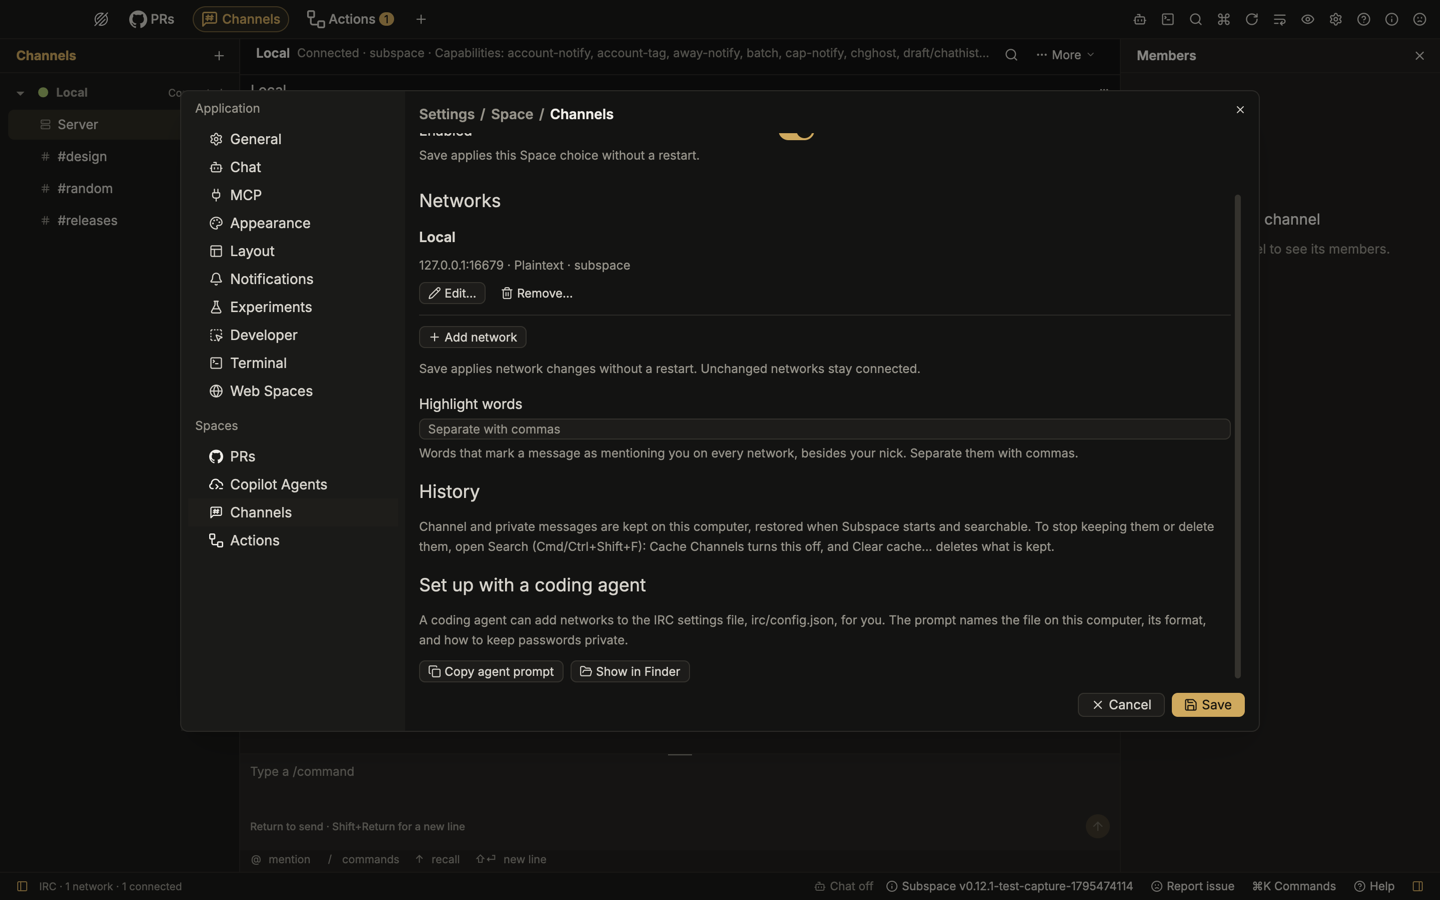
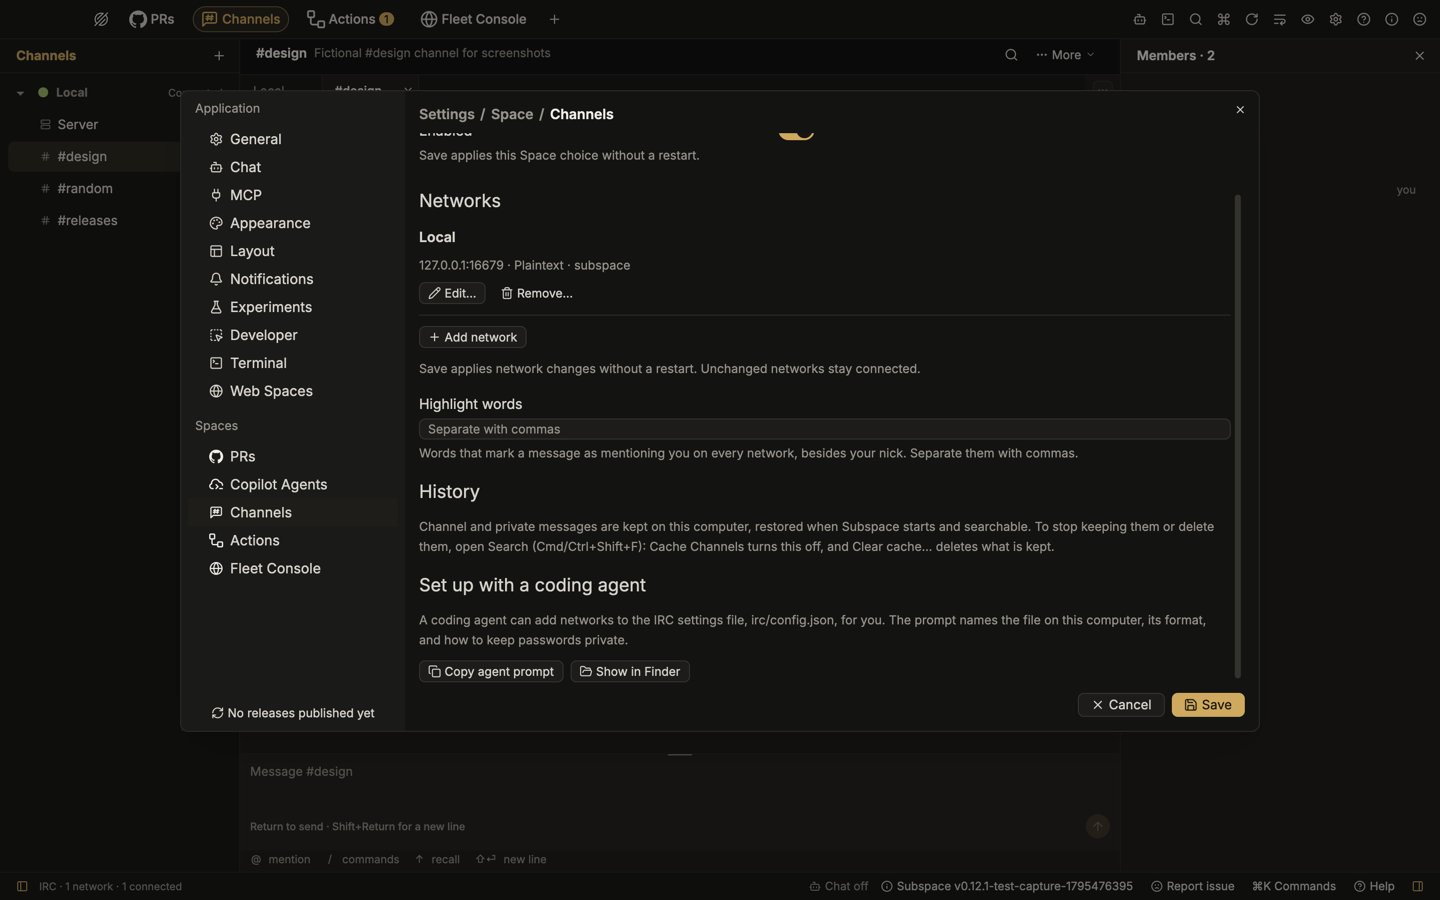
fix(desktop): show Fleet Console in a build with no API backend
A build with no API backend hid Fleet Console until its address and token
were in its config entry, leaving nowhere in the app to enter them. It now
shows as in every build: unset, it shows its sample fleet, points to its
own Settings page and offers Add fleet, naming no API or sign-in.

diff --git a/subspace-desktop/web-spaces/fleet-console/test/fleets.test.js b/subspace-desktop/web-spaces/fleet-console/test/fleets.test.js
@@ -6,6 +6,7 @@ import { normalizeEndpoint } from "../src/api.js";
 import { addBlocker, sampleNote, describeTestError, describeTestSuccess, fleetForm, fleetSection, landscapePanel, validateFleetForm } from "../src/fleet-panel.js";
 import { createFleetManager, createSampleFleetManager, nextPollAt, POLL_MS } from "../src/fleet-manager.js";
 import { initialFleetState } from "../src/reducer.js";
+import { describeConnection } from "../src/connection.js";
 import { chain, createNavigator, fleetTier, LANDSCAPE, parentOf, planSteps, sameSelection } from "../src/camera.js";
 import { focusFor, landscapeLayout } from "../src/layout.js";
 import { composeFrame } from "../src/scene/index.js";
@@ -137,6 +138,16 @@ test("merging keeps Settings first, then the API, then the page, one entry per a
   const merged = mergeFleets({ settings, api, local });
   assert.deepEqual(merged.map((fleet) => [fleet.id, fleet.origin]), [[DEFAULT_FLEET_ID, "settings"], ["api_i1", "api"], ["floc000002", "local"]]);
   assert.deepEqual(mergeFleets({}), []);
+});
+
+test("without the Subspace API, an unset Fleet Console asks for its own fleet and names no API or sign-in", () => {
+  // A build with no API backend gives no API fleets: the page's own
+  // settings and Add fleet are how a fleet gets there.
+  const unset = resolveFleets({ present: true, allowed: allowedAll, capabilities: caps, settings: {}, secrets: {}, list: [], api: [], normalizeEndpoint });
+  assert.deepEqual([unset.mode, unset.reason, unset.canStore], ["sample", "no-endpoint", true]);
+  const { banner } = describeConnection({ status: "sample", reason: unset.reason });
+  assert.match(banner.body, /Settings > Spaces > Fleet Console/);
+  assert.doesNotMatch(`${banner.title} ${banner.body}`, /Subspace API|Settings › Fleets|sign in|initiative/i);
 });
 
 test("resolving: sample without a usable fleet, live with any fleet that has a token", () => {

diff --git a/subspace-desktop/products/subspace/src/surfaces.rs b/subspace-desktop/products/subspace/src/surfaces.rs
@@ -5,22 +5,19 @@
 //! - the Issues and Decisions Spaces, from the registrations and the
 //!   descriptor (Settings, **Add a Space**, search and the command palette
 //!   list only those);
-//! - Settings › Fleets, whose fleets are the API's initiatives' fleets;
-//! - the built-in Fleet Console until its own Stargate API address and token
-//!   are saved, since only those give it a fleet.
+//! - Settings › Fleets, whose fleets are the API's initiatives' fleets.
 //!
-//! Updates are the same in every build: the updater checks GitHub releases,
-//! never the API.
+//! Everything else is the same in every build: the updater checks GitHub
+//! releases, never the API, and Fleet Console, which then has only the
+//! fleets a person enters in its own settings or adds inside it.
 //!
 //! Sign-in needs a provider, which such a build refuses (`identity.rs`), and
 //! the API client refuses every request once `launch::install` has recorded
 //! the choice, which turns Channels' initiatives, fleet context, captain
 //! notices, uploads and tracker commands off.
 
-use subspace_framework::core::config::web_boards::WebBoard;
 use subspace_framework::product::ProductDescriptor;
 use subspace_framework::shell::{BoardRegistration, SettingsExtension};
-use subspace_web_board::builtin::FLEET_CONSOLE_ID;
 
 use crate::settings::ApiBackend;
 
@@ -29,10 +26,6 @@ const API_SPACES: [&str; 2] = ["issues", "decisions"];
 
 /// The Settings extensions that list what the tracker API records.
 const API_SETTINGS: [&str; 1] = ["fleets"];
-
-/// Fleet Console's own settings for its first fleet, from its manifest.
-const FLEET_ENDPOINT: &str = "endpoint";
-const FLEET_TOKEN: &str = "token";
 
 /// Whether `backend` keeps the Space or Settings page `id`, of which those
 /// in `needs_api` need an API.
@@ -67,75 +60,4 @@ pub(crate) fn adjust_descriptor(descriptor: &mut ProductDescriptor) {
     descriptor
         .boards
         .retain(|board| keeps(ApiBackend::None, board.id.as_str(), &API_SPACES));
-}
-
-/// Whether `backend` shows the configured web Space `board`: always, except
-/// Fleet Console in a build with no API backend, which has no fleets from
-/// the API and shows once its Stargate API address and token are saved, as
-/// the installer saves them.
-pub(crate) fn shows_web_space(backend: ApiBackend, board: &WebBoard) -> bool {
-    backend != ApiBackend::None || board.id != FLEET_CONSOLE_ID || has_own_fleet(board)
-}
-
-/// Whether Fleet Console's settings hold a fleet: an address and a token.
-fn has_own_fleet(board: &WebBoard) -> bool {
-    let endpoint = board
-        .settings
-        .get(FLEET_ENDPOINT)
-        .and_then(|value| value.as_str())
-        .is_some_and(|value| !value.trim().is_empty());
-    let token = board
-        .secrets
-        .get(FLEET_TOKEN)
-        .is_some_and(|token| !token.expose().trim().is_empty());
-    endpoint && token
-}
-
-#[cfg(test)]
-mod tests {
-    use super::{ApiBackend, FLEET_CONSOLE_ID, shows_web_space};
-    use std::path::PathBuf;
-    use subspace_framework::core::Secret;
-    use subspace_framework::core::config::web_boards::{WebBoard, WebBoardSource};
-
-    fn board(id: &str, endpoint: Option<&str>, token: Option<&str>) -> WebBoard {
-        WebBoard {
-            id: id.to_owned(),
-            title: "Fixture".to_owned(),
-            source: WebBoardSource::Folder(PathBuf::from("/apps/fixture")),
-            settings: endpoint
-                .map(|endpoint| ("endpoint".to_owned(), endpoint.into()))
-                .into_iter()
-                .collect(),
-            secrets: token
-                .map(|token| ("token".to_owned(), Secret::new(token)))
-                .into_iter()
-                .collect(),
-            permissions: Default::default(),
-        }
-    }
-
-    #[test]
-    fn without_a_backend_fleet_console_shows_once_its_fleet_is_saved() {
-        let address = Some("https://fleet.example.com");
-        let saved = board(FLEET_CONSOLE_ID, address, Some("fixture-token"));
-        assert!(shows_web_space(ApiBackend::None, &saved));
-        for unsaved in [
-            board(FLEET_CONSOLE_ID, None, None),
-            board(FLEET_CONSOLE_ID, address, None),
-            board(FLEET_CONSOLE_ID, None, Some("fixture-token")),
-            board(FLEET_CONSOLE_ID, Some("  "), Some("fixture-token")),
-            board(FLEET_CONSOLE_ID, address, Some(" ")),
-        ] {
-            assert!(!shows_web_space(ApiBackend::None, &unsaved));
-            // The API's fleets give the other builds a fleet without them.
-            assert!(shows_web_space(ApiBackend::Subspace, &unsaved));
-            assert!(shows_web_space(ApiBackend::Nett, &unsaved));
-        }
-        // Every other web Space shows, whatever its settings.
-        assert!(shows_web_space(
-            ApiBackend::None,
-            &board("notes", None, None)
-        ));
-    }
 }

diff --git a/subspace-desktop/products/subspace/src/main.rs b/subspace-desktop/products/subspace/src/main.rs
@@ -182,7 +182,6 @@ fn web_boards(config: &subspace_framework::core::config::Config) -> Vec<BoardReg
     config
         .web_boards
         .iter()
-        .filter(|board| surfaces::shows_web_space(identity::backend(), board))
         .map(|board| {
             let page = board.clone();
             let registration = BoardRegistration::configured::<subspace_web_board::WebBoard>(
@@ -228,6 +227,25 @@ mod tests {
     use crate::settings::ApiBackend;
     use std::collections::HashSet;
     use subspace_framework::product::BuildKind;
+
+    /// Fleet Console shows in every build, before any fleet is set, so a
+    /// build with no API backend can set its first fleet in Fleet Console's
+    /// own settings or add one inside it.
+    #[test]
+    fn fleet_console_shows_before_any_fleet_is_set() {
+        use subspace_framework::core::config::web_boards::{WebBoard, WebBoardSource};
+        let mut config = subspace_framework::core::config::Config::default();
+        config.web_boards.push(WebBoard {
+            id: subspace_web_board::builtin::FLEET_CONSOLE_ID.to_owned(),
+            title: "Fleet Console".to_owned(),
+            source: WebBoardSource::Folder(std::path::PathBuf::from("/apps/fleet-console")),
+            settings: Default::default(),
+            secrets: Default::default(),
+            permissions: Default::default(),
+        });
+        let ids: Vec<_> = web_boards(&config).iter().map(|board| board.id).collect();
+        assert_eq!(ids, [subspace_web_board::builtin::FLEET_CONSOLE_ID]);
+    }
 
     #[test]
     fn a_config_without_web_boards_adds_no_boards() {

diff --git a/subspace-desktop/docs/changes/desktop-no-backend/README.md b/subspace-desktop/docs/changes/desktop-no-backend/README.md
@@ -7,8 +7,8 @@ abstracted over other trackers. What keeps the app usable without the API is
 a build option, not an interface. The owner wants a third `api_backend`
 value, `none`, beside `subspace` (the default) and `nett`: a build that
 starts with nothing to sign in to, connects to IRC networks configured by
-hand, shows Fleet Console only for a fleet whose address and token were
-saved by hand, keeps its updates, and shows no surface that would call the API. The other two
+hand, lets a person give Fleet Console a fleet by hand inside the app, keeps
+its updates, and shows no surface that would call the API. The other two
 builds behave exactly as before.
 
 ## Spec
@@ -77,11 +77,12 @@ Not present, so nothing to leave out:
   which `install.sh` writes), the fleets the API assigns to initiatives
   (`subspace.fleets.get`, from `FleetApi` over the initiative catalogue) and
   fleets added inside the page. With no API the second source is always
-  empty, so the build registers the built-in Fleet Console only once its
-  entry holds both an address and a token (`surfaces::shows_web_space`);
-  the config file is watched, so it appears when they are saved. No new
-  settings surface: the entry's settings are the ones the installer and the
-  Space's own Settings page already use.
+  empty and the other two work as before, so the build registers Fleet
+  Console as every build does. Unset, it shows its sample fleet with
+  **Sample fleet: no Stargate address**, which points to Settings › Spaces ›
+  Fleet Console, and its inspector offers **Add fleet**, which keeps the
+  token in the Space's secrets. Neither names the API or a sign-in. No new
+  settings surface.
 - **Updates.** The updater reads the product's release source on GitHub,
   with the GitHub credential when there is one, and never the Subspace API
   or its account, so a `none` build updates as every build does.
@@ -110,10 +111,12 @@ and two lines in Channels.
   - `src/identity.rs`: a launch with no provider offers no account; the
     stamped build's descriptor is adjusted for its backend.
   - `src/main.rs`: each backend's Space and Settings page set, and the
-    adjusted descriptor lists exactly the Spaces a `none` build registers
-    and keeps the update source.
-  - `src/surfaces.rs`: Fleet Console shows in a `none` build only with an
-    address and a token.
+    adjusted descriptor lists exactly the Spaces a `none` build registers.
+  - `src/main.rs`: Fleet Console registers before any fleet is set, and a
+    `none` build keeps the descriptor's update source.
+  - `web-spaces/fleet-console/test/fleets.test.js`: with no API fleets and
+    nothing set, Fleet Console asks for its own fleet in its Settings page
+    and names no API, Settings › Fleets, sign-in or initiative.
   - `tests/no_backend_build.rs`: in a child process, with the Subspace API
     debug fixture variables set, the launch refuses them; a clean launch
     installs no backend, after which no origin can be configured, no client
@@ -134,8 +137,8 @@ and two lines in Channels.
 
 | Image | Shows | Options |
 | --- | --- | --- |
-| [Shell](evidence/none-shell.png) | PRs, Channels, Actions and Fleet Console; no Issues or Decisions. Channels is plain IRC on the hand-configured network, with no initiative picker | `CAPTURE_FLEET_API=1` (Fleet Console's address and token saved) |
-| [Shell without a fleet](evidence/none-shell-no-fleet.png) | The same without Fleet Console, whose address and token are not saved | |
+| [Shell](evidence/none-shell.png) | PRs, Channels, Actions and Fleet Console; no Issues or Decisions. Channels is plain IRC on the hand-configured network, with no initiative picker | |
+| [Fleet Console unset](evidence/none-fleet-console-unset.png) | Fleet Console with no fleet: the sample fleet, its Settings page named, nothing about the API | `app.dashboard` `fleet-console` |
 | [Settings](evidence/none-settings.png) | Application has no Account and no Fleets; Spaces lists no Issues or Decisions | `CAPTURE_FLEET_API=1`, `OpenSettings` |
 | [Settings › Channels](evidence/none-settings-channels.png) | The hand-configured network | `CAPTURE_FLEET_API=1`, then Channels |
 | [Settings › Channels, end](evidence/none-settings-channels-end.png) | History, then agent setup: no **Notify ship captains** | Scrolled to the end |
@@ -145,7 +148,7 @@ and two lines in Channels.
 - [x] `api_backend: "none"` in the build and launch settings.
 - [x] Leave out the Spaces, Settings pages and Channels surfaces that need
       the API.
-- [x] Fleet Console from its own saved settings.
+- [x] Fleet Console from its own settings or a fleet added inside it.
 - [x] Tests, README section and this record.
 - [ ] When pull request 83 lands, check that account networks stay off in
       a `none` build (no client and no capability) and that Settings ›

diff --git a/subspace-desktop/README.md b/subspace-desktop/README.md
@@ -180,9 +180,9 @@ API: **Settings > Account** and any sign-in, the Issues and Decisions Spaces,
 context, captain notices (and their switch in **Settings > Channels**), chat
 uploads and the tracker commands, so `/assign` is ordinary IRC input.
 Channels connects to the networks you add in **Settings > Channels**. Fleet
-Console appears once its own Stargate API address and token are saved in its
-`webBoards` entry, as the installer saves them; its other fleets are the ones
-you add inside it. Updates work as in every build: they come from GitHub
+Console shows the fleets you give it: the Stargate API address and token in
+**Settings > Spaces > Fleet Console** (which the installer can fill in), and
+any you add inside it. Updates work as in every build: they come from GitHub
 releases and never need the API.
 
 The build refuses `identity_provider`, `api_url`, `nett_api_url` and every
